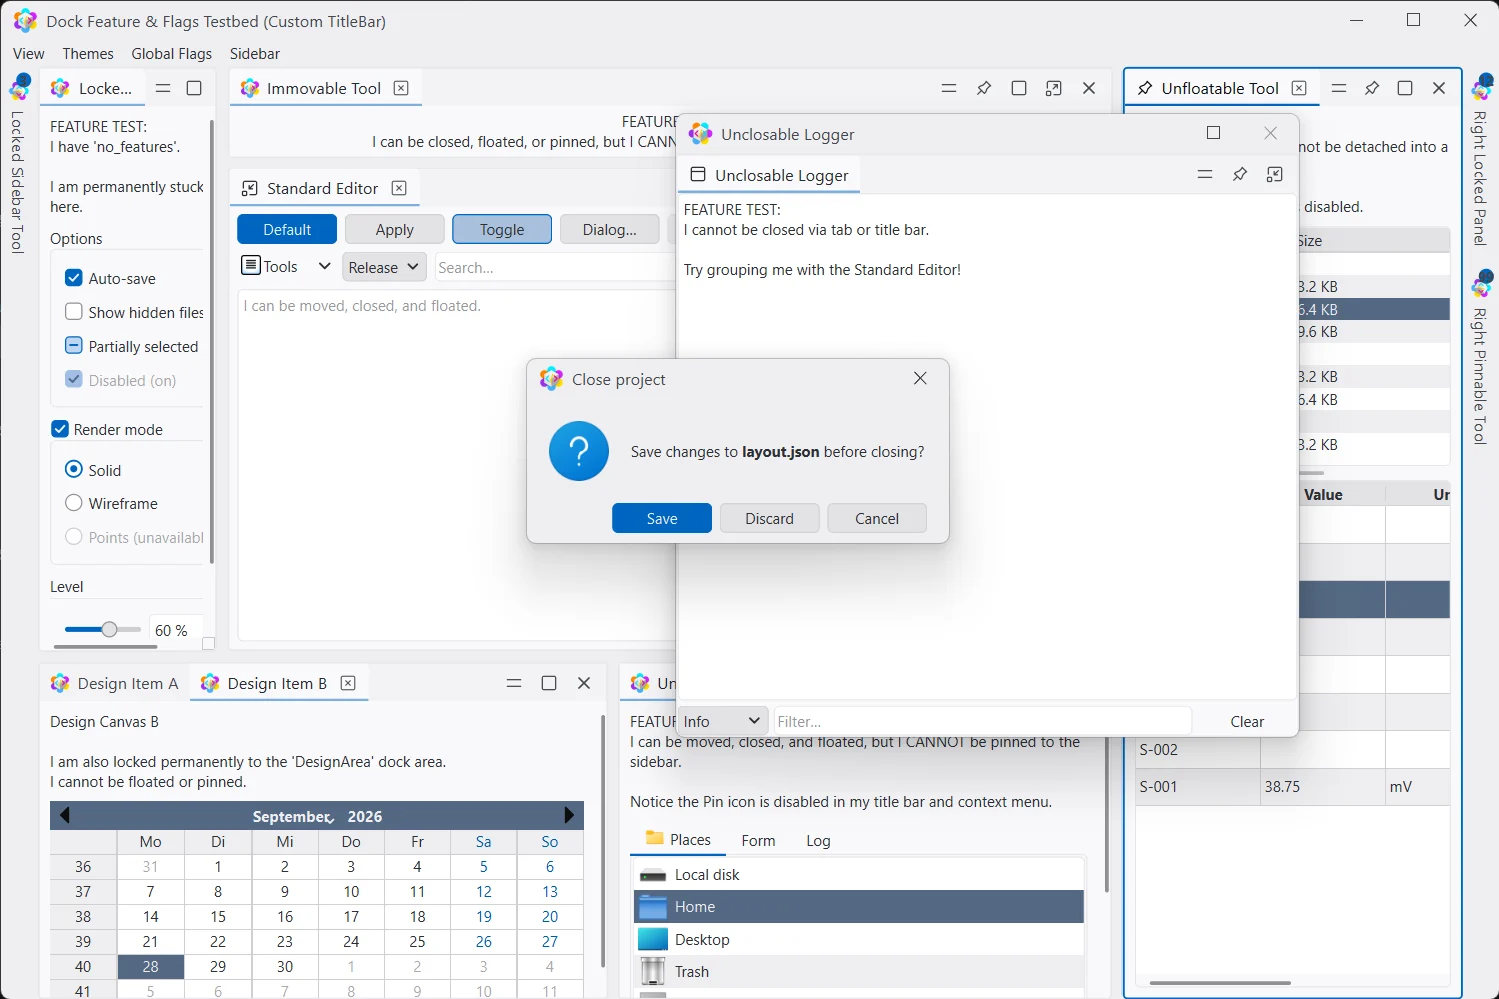
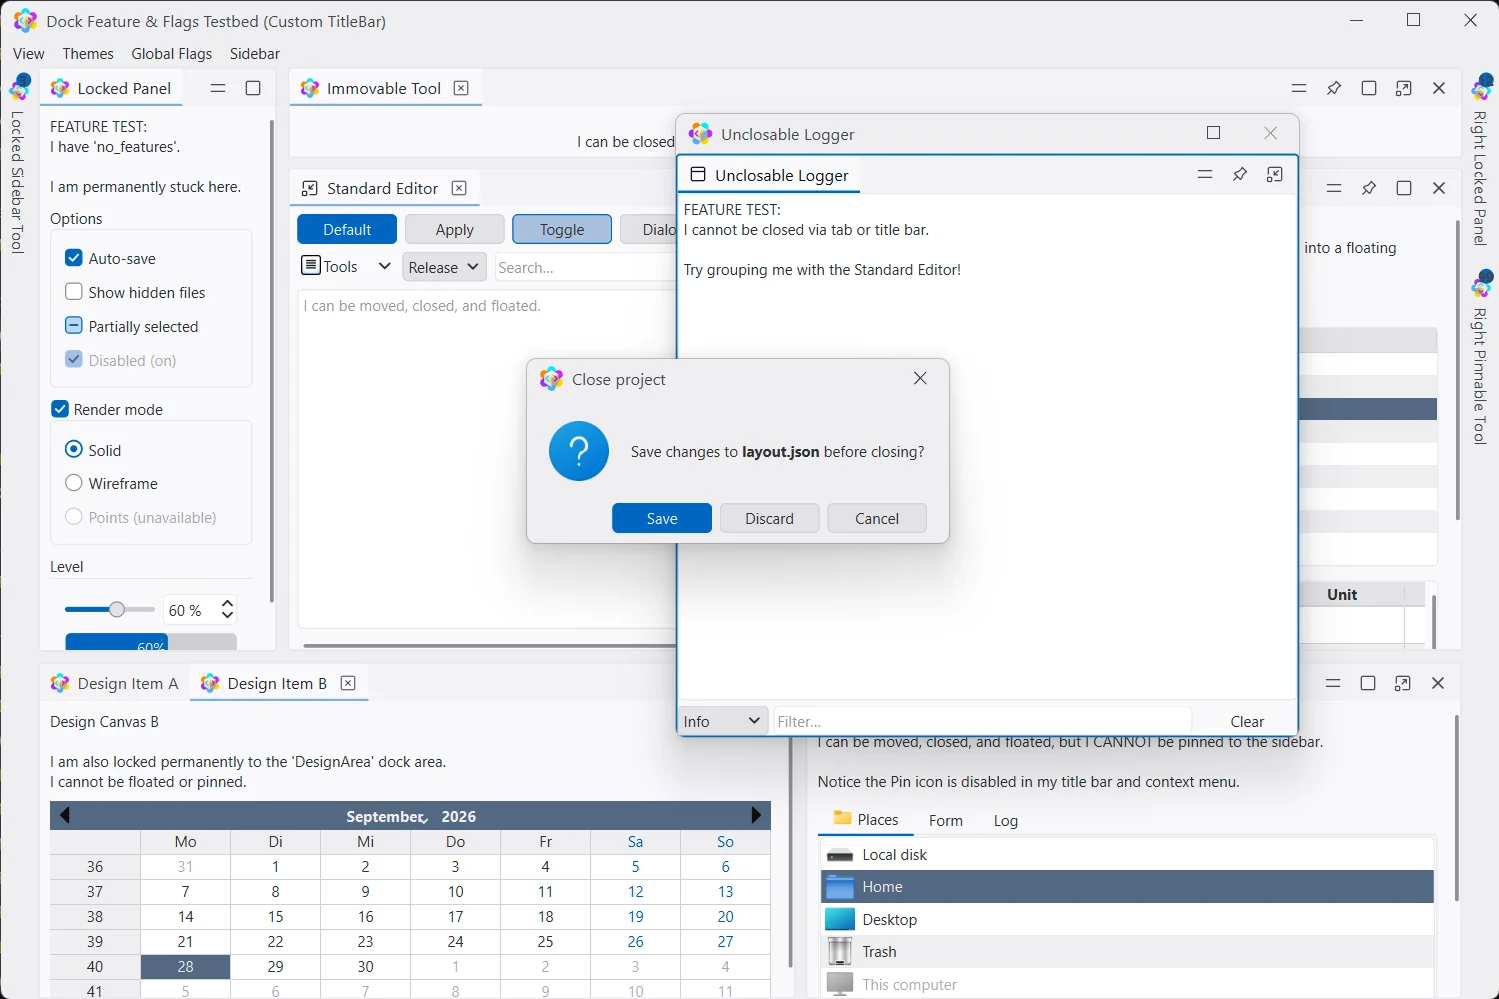
feat(site): Editor Classics, Tokyo Night dialog, window-true corners
- Screenshot frames clip at the window's own 8px corner (as a percentage,
  so it scales) instead of a 14px radius, and drop the extra outline.
- The theme picker adds Dracula, Monokai, Nordic and both Solarized
  themes, and groups its chips the way theme_groups() does.
- The dialog pair puts Tokyo Night in front of Light; both re-shot in
  the same session so the layouts match.

diff --git a/site/main.js b/site/main.js
@@ -3,19 +3,25 @@
   "use strict";
 
   // Canvas and accent colours straight from lace's DOCK_THEMES (CORE.canvas_bg / accent_color).
+  // Grouped as lace's theme_groups() groups them.
   const THEMES = [
-    { key: "midnight_neo",   name: "Midnight Neo",   bg: "#0b0d14", accent: "#375fe2" },
-    { key: "dark",           name: "Dark",           bg: "#121314", accent: "#0078d4" },
-    { key: "mocha_neo",      name: "Mocha Neo",      bg: "#241e1b", accent: "#c86e3c" },
-    { key: "slate",          name: "Slate",          bg: "#969ca6", accent: "#164696" },
-    { key: "caramel_neo",    name: "Caramel Neo",    bg: "#c5c2bd", accent: "#aa5900" },
-    { key: "neutral",        name: "Neutral",        bg: "#bebfc2", accent: "#0068c0" },
-    { key: "cream_neo",      name: "Cream Neo",      bg: "#f0ebe1", accent: "#b05c00" },
-    { key: "light",          name: "Light",          bg: "#eeeef1", accent: "#0066c0" },
-    { key: "catppuccin",     name: "Catppuccin",     bg: "#1e1e2e", accent: "#cba6f7" },
-    { key: "tokyo_night",    name: "Tokyo Night",    bg: "#1a1b26", accent: "#7aa2f7" },
-    { key: "violet_haze",    name: "Violet Haze",    bg: "#282a36", accent: "#bd93f9" },
-    { key: "cyberpunk_neon", name: "Cyberpunk Neon", bg: "#0e0b1c", accent: "#ff007f" },
+    { group: "Basics",          key: "midnight_neo",    name: "Midnight Neo",    bg: "#0b0d14", accent: "#375fe2" },
+    { group: "Basics",          key: "dark",            name: "Dark",            bg: "#121314", accent: "#0078d4" },
+    { group: "Basics",          key: "mocha_neo",       name: "Mocha Neo",       bg: "#241e1b", accent: "#c86e3c" },
+    { group: "Basics",          key: "slate",           name: "Slate",           bg: "#969ca6", accent: "#164696" },
+    { group: "Basics",          key: "caramel_neo",     name: "Caramel Neo",     bg: "#c5c2bd", accent: "#aa5900" },
+    { group: "Basics",          key: "neutral",         name: "Neutral",         bg: "#bebfc2", accent: "#0068c0" },
+    { group: "Basics",          key: "cream_neo",       name: "Cream Neo",       bg: "#f0ebe1", accent: "#b05c00" },
+    { group: "Basics",          key: "light",           name: "Light",           bg: "#eeeef1", accent: "#0066c0" },
+    { group: "Editor Classics", key: "dracula",         name: "Dracula",         bg: "#282a36", accent: "#bd93f9" },
+    { group: "Editor Classics", key: "monokai",         name: "Monokai",         bg: "#1c1a1d", accent: "#ffd866" },
+    { group: "Editor Classics", key: "nordic",          name: "Nordic",          bg: "#282e3a", accent: "#88c0d0" },
+    { group: "Editor Classics", key: "catppuccin",      name: "Catppuccin",      bg: "#1e1e2e", accent: "#cba6f7" },
+    { group: "Editor Classics", key: "tokyo_night",     name: "Tokyo Night",     bg: "#1a1b26", accent: "#7aa2f7" },
+    { group: "Editor Classics", key: "solarized_dark",  name: "Solarized Dark",  bg: "#002b36", accent: "#268bd2" },
+    { group: "Editor Classics", key: "solarized_light", name: "Solarized Light", bg: "#fdf6e3", accent: "#137fc6" },
+    { group: "Neon & Edge",     key: "cyberpunk_neon",  name: "Cyberpunk Neon",  bg: "#0e0b1c", accent: "#ff007f" },
+    { group: "Neon & Edge",     key: "violet_haze",     name: "Violet Haze",     bg: "#282a36", accent: "#bd93f9" },
   ];
   const src = (t) => `img/themes/${t.key}.webp`;
   const root = document.documentElement;
@@ -44,7 +50,15 @@
   // Theme picker
   const picker = document.getElementById("theme-picker");
   const stage = document.getElementById("theme-img");
+  const rows = {};
   const chips = THEMES.map((t, i) => {
+    if (!rows[t.group]) {
+      const row = document.createElement("div");
+      row.className = "picker-group";
+      row.innerHTML = `<span class="picker-label">${t.group}</span>`;
+      picker.appendChild(row);
+      rows[t.group] = row;
+    }
     const b = document.createElement("button");
     b.type = "button";
     b.className = "theme-chip";
@@ -54,7 +68,7 @@
     b.style.setProperty("--chip-accent", t.accent);
     b.innerHTML = `<span class="chip-dot" aria-hidden="true"></span>${t.name}`;
     b.addEventListener("click", () => select(i, true));
-    picker.appendChild(b);
+    rows[t.group].appendChild(b);
     return b;
   });
 
@@ -70,7 +84,7 @@
   const heroImg = document.getElementById("hero-img");
   const heroName = document.getElementById("hero-name");
   const heroSwatch = document.getElementById("hero-swatch");
-  const heroOrder = ["cyberpunk_neon", "tokyo_night", "light", "mocha_neo", "catppuccin", "cream_neo", "midnight_neo", "violet_haze"]
+  const heroOrder = ["cyberpunk_neon", "tokyo_night", "light", "monokai", "nordic", "cream_neo", "dracula", "solarized_light", "mocha_neo"]
     .map((k) => THEMES.find((t) => t.key === k));
   let heroIndex = 0;
   let heroTimer = null;

diff --git a/site/style.css b/site/style.css
@@ -123,11 +123,14 @@ h1 { font-size: clamp(38px, 4.4vw, 58px); font-weight: 800; margin: 22px 0 20px;
 .meta { display: flex; flex-wrap: wrap; gap: 8px 20px; list-style: none; padding: 0; margin: 26px 0 0; color: var(--faint); font-size: 13.5px; }
 .meta li::before { content: ""; display: inline-block; width: 6px; height: 6px; border-radius: 50%; background: var(--accent); margin-right: 8px; vertical-align: 2px; }
 
+/* Screenshots are 1500x1000 and the window in them has an 8px corner: the
+   percentages keep the clip at exactly that radius at any rendered size. */
 .shot-frame {
-  position: relative; border-radius: var(--radius); overflow: hidden;
-  border: 1px solid var(--line-strong); background: var(--surface);
+  position: relative; border-radius: 0.534% / 0.8%; overflow: hidden;
+  background: var(--surface);
   box-shadow: 0 30px 80px -30px rgba(0, 0, 0, 0.8), 0 0 0 1px rgba(0, 0, 0, 0.4);
 }
+.shot-frame img { display: block; width: 100%; height: auto; }
 .hero-shot { margin: 0; position: relative; }
 .hero-shot .shot-frame {
   box-shadow:
@@ -195,7 +198,12 @@ h1 { font-size: clamp(38px, 4.4vw, 58px); font-weight: 800; margin: 22px 0 20px;
 
 /* Themes */
 .themes { background: linear-gradient(180deg, transparent, var(--bg-2) 30%, var(--bg-2) 70%, transparent); }
-.theme-picker { display: flex; flex-wrap: wrap; gap: 8px; margin-bottom: 26px; }
+.theme-picker { display: grid; gap: 10px; margin-bottom: 26px; }
+.picker-group { display: flex; flex-wrap: wrap; align-items: center; gap: 8px; }
+.picker-label {
+  flex: 0 0 136px; color: var(--faint); font-size: 12px; font-weight: 600;
+  letter-spacing: 0.08em; text-transform: uppercase;
+}
 .theme-chip {
   display: inline-flex; align-items: center; gap: 9px;
   height: 38px; padding: 0 14px 0 8px; border-radius: 10px; cursor: pointer;
@@ -303,6 +311,7 @@ h1 { font-size: clamp(38px, 4.4vw, 58px); font-weight: 800; margin: 22px 0 20px;
   .section { padding: 72px 0; }
   .cards, .doc-links { grid-template-columns: 1fr; }
   .stats { width: calc(100% - 32px); }
+  .picker-label { flex-basis: 100%; margin-top: 6px; }
   .stats div { padding: 20px 18px; }
   .stats strong { font-size: 26px; }
   .install code { font-size: 13px; }

diff --git a/site/index.html b/site/index.html
@@ -151,7 +151,7 @@
         <header class="section-head">
           <p class="eyebrow">Themes</p>
           <h2>One switch. Every pixel follows.</h2>
-          <p>Docks, tabs, menus, scroll bars, title bars and the full <code>QPalette</code> — Active, Inactive and Disabled — all change together. Here are twelve of the 37.</p>
+          <p>Docks, tabs, menus, scroll bars, title bars and the full <code>QPalette</code> — Active, Inactive and Disabled — all change together. Here are seventeen of the 37, including the editor classics.</p>
         </header>
         <div class="theme-picker" role="tablist" aria-label="Themes" id="theme-picker"></div>
         <div class="shot-frame theme-stage">
@@ -181,7 +181,7 @@
         </div>
         <div class="dialog-stack">
           <div class="shot-frame back"><img loading="lazy" src="img/dialog_light.webp" width="1499" height="999" alt="A themed question dialog in the Light theme"></div>
-          <div class="shot-frame front"><img loading="lazy" src="img/dialog_cyberpunk_neon.webp" width="1499" height="999" alt="A themed question dialog in the Cyberpunk Neon theme"></div>
+          <div class="shot-frame front"><img loading="lazy" src="img/dialog_tokyo_night.webp" width="1499" height="999" alt="A themed question dialog in the Tokyo Night theme"></div>
         </div>
       </div>
     </section>
